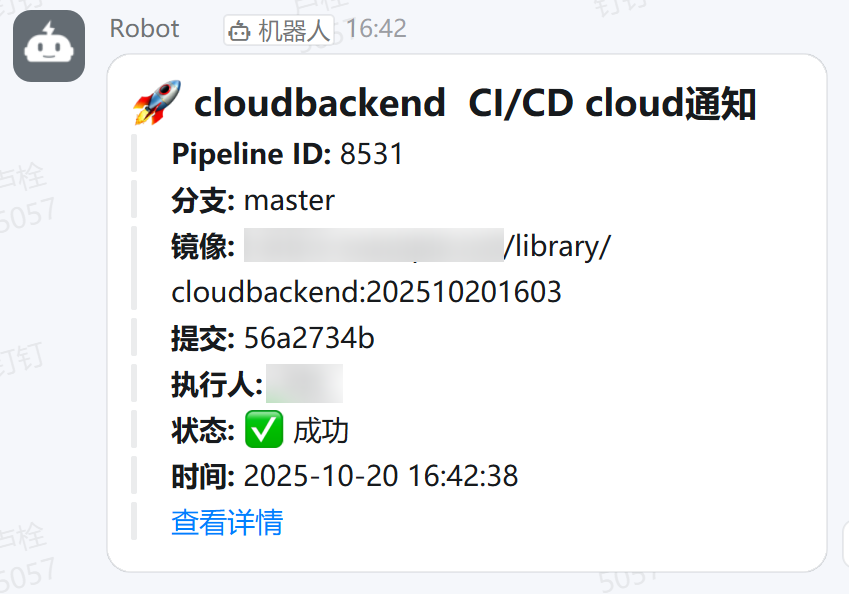
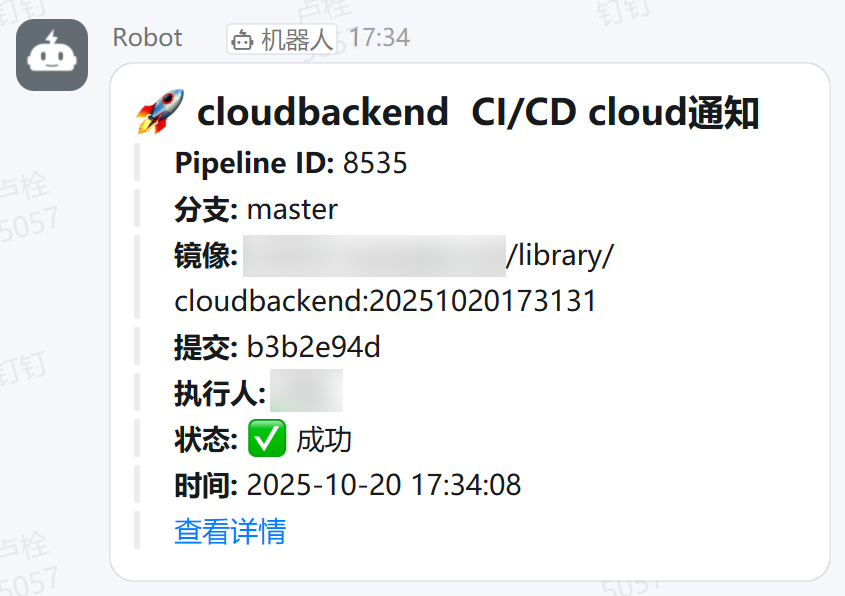
基于 Gitlab Runner 构建 Gin-Vue-Admin 后端 server 服务CI/CD v2

Changed region(s): [[0.1538, 0.1212, 0.9231, 0.9394], [0.0, 0.0, 0.2154, 0.1515], [0.2462, 0.0303, 0.4923, 0.0909]]

diff --git a/content/posts/cicd/gitlab/基于 Gitlab 构建 Gin-Vue-Admin 后端 server 服务CICD.md b/content/posts/cicd/gitlab/基于 Gitlab 构建 Gin-Vue-Admin 后端 server 服务CICD.md
@@ -259,10 +259,11 @@ build:
 在项目根目录新建 `.gitlab-ci.yml` 文件，内容如下：
 ```
 stages:
+  - prepare   # 定义JOB全局环境变量
   - build     # 编译
   - push      # 镜像推送
   - deploy    # 部署
-
+  - notify    # 通知
 
 # 全局变量定义
 variables:
@@ -276,6 +277,21 @@ variables:
   DOCKER_DRIVER: overlay2
   TIMEOUT: "60s"
 
+# ==========================================
+# 定义 JOB 全局变量，生成时间戳并保存为 artifact (一次生成，全局共享)
+# ==========================================
+prepare:
+  stage: prepare
+  tags:
+    - gva
+  script:
+    - echo "IMAGE_TAG=$(date '+%Y%m%d%H%M%S')" > image_tag.env
+    - cat image_tag.env
+  artifacts:
+    reports:
+      dotenv: image_tag.env     # ✅ GitLab 会把这里的变量注入后续 Job 环境中
+  only:
+    - master
 
 # ==========================================
 # Stage 1: 构建镜像
